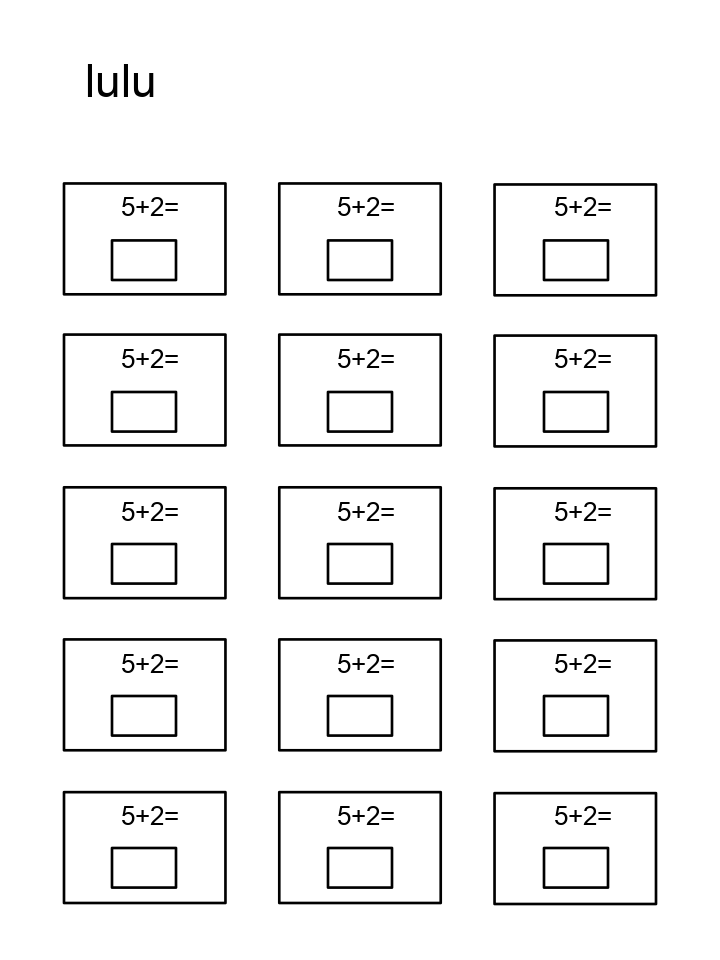
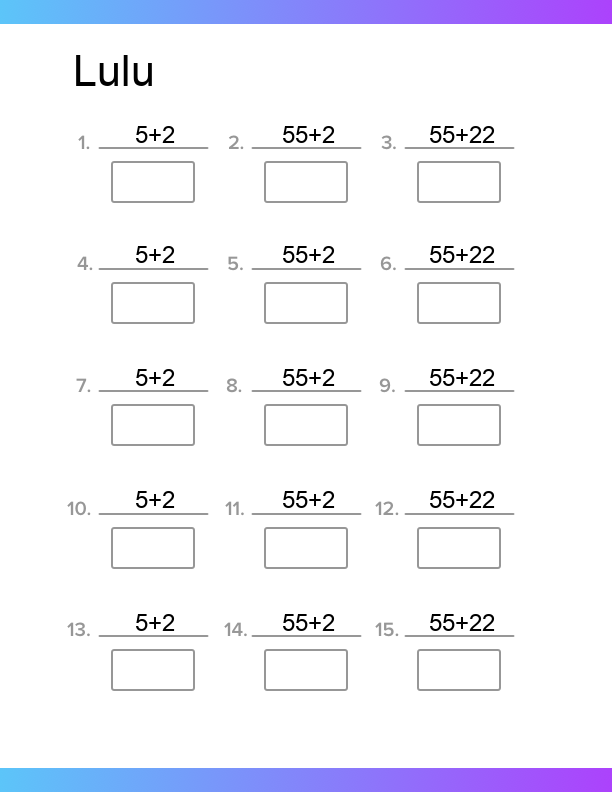
Image recognition is actually working ok

diff --git a/athena/performRecognition.py b/athena/performRecognition.py
@@ -7,40 +7,60 @@ import numpy as np
 # Load the classifier
 clf = joblib.load("digits_cls.pkl")
 
+
+def readNum(im):
+    # Convert to grayscale and apply Gaussian filtering
+    im_gray = cv2.cvtColor(im, cv2.COLOR_BGR2GRAY)
+    im_gray = cv2.GaussianBlur(im_gray, (5, 5), 0)
+
+    # Threshold the image
+    ret, im_th = cv2.threshold(im_gray, 90, 255, cv2.THRESH_BINARY_INV)
+
+    # Find contours in the image
+    _, ctrs, hier = cv2.findContours(im_th.copy(), cv2.RETR_EXTERNAL, cv2.CHAIN_APPROX_SIMPLE)
+
+    # Get rectangles contains each contour
+    rects = [cv2.boundingRect(ctr) for ctr in ctrs]
+
+
+    # For each rectangular region, calculate HOG features and predict
+    # the digit using Linear SVM.
+    nums = []
+    for rect in rects:
+        # Draw the rectangles
+        cv2.rectangle(im, (rect[0], rect[1]), (rect[0] + rect[2], rect[1] + rect[3]), (0, 255, 0), 3) 
+        # Make the rectangular region around the digit
+        leng = int(rect[3] * 1.6)
+        pt1 = int(rect[1] + rect[3] // 2 - leng // 2)
+        pt2 = int(rect[0] + rect[2] // 2 - leng // 2)
+
+        # i'm pretty sure I mixed up the x and y axes
+        rightmost, bottommost = im_th.shape
+        left = max(pt1, 0)
+        right = min(pt1+leng, rightmost)
+        top = max(pt2, 0)
+        bottom = min(pt2+leng, bottommost)
+
+        roi = im_th[left:right, top:bottom]
+        # Resize the image
+
+        if(min(roi.shape) < 1):
+            continue
+        roi = cv2.resize(roi, (28, 28), interpolation=cv2.INTER_AREA)
+        roi = cv2.dilate(roi, (3, 3))
+        # Calculate the HOG features
+        roi_hog_fd = hog(roi, orientations=9, pixels_per_cell=(14, 14), cells_per_block=(1, 1), visualise=False)
+        nbr = clf.predict(np.array([roi_hog_fd], 'float64'))
+
+        # should be sorting by left, but I think I mixed up the axes. this at least works
+        nums.append((top, nbr))
+        #cv2.putText(im, str(int(nbr[0])), (rect[0], rect[1]+50),cv2.FONT_HERSHEY_DUPLEX, 1, (0, 255, 255), 3)
+
+    nums.sort()
+    return ''.join([str(int(x[1][0])) for x in nums])
+
+'''
 # Read the input image 
-im = cv2.imread("test_ocr_3.jpg")
-
-# Convert to grayscale and apply Gaussian filtering
-im_gray = cv2.cvtColor(im, cv2.COLOR_2GRAY)
-im_gray = cv2.GaussianBlur(im_gray, (5, 5), 0)
-
-# Threshold the image
-ret, im_th = cv2.threshold(im_gray, 90, 255, cv2.THRESH_BINARY_INV)
-
-# Find contours in the image
-_, ctrs, hier = cv2.findContours(im_th.copy(), cv2.RETR_EXTERNAL, cv2.CHAIN_APPROX_SIMPLE)
-
-# Get rectangles contains each contour
-rects = [cv2.boundingRect(ctr) for ctr in ctrs]
-
-# For each rectangular region, calculate HOG features and predict
-# the digit using Linear SVM.
-for rect in rects:
-    # Draw the rectangles
-    cv2.rectangle(im, (rect[0], rect[1]), (rect[0] + rect[2], rect[1] + rect[3]), (0, 255, 0), 3) 
-    # Make the rectangular region around the digit
-    leng = int(rect[3] * 1.6)
-    pt1 = int(rect[1] + rect[3] // 2 - leng // 2)
-    pt2 = int(rect[0] + rect[2] // 2 - leng // 2)
-    roi = im_th[pt1:pt1+leng, pt2:pt2+leng]
-    # Resize the image
-    roi = cv2.resize(roi, (28, 28), interpolation=cv2.INTER_AREA)
-    roi = cv2.dilate(roi, (3, 3))
-    # Calculate the HOG features
-    roi_hog_fd = hog(roi, orientations=9, pixels_per_cell=(14, 14), cells_per_block=(1, 1), visualise=False)
-    nbr = clf.predict(np.array([roi_hog_fd], 'float64'))
-    cv2.putText(im, str(int(nbr[0])), (rect[0], rect[1]),cv2.FONT_HERSHEY_DUPLEX, 2, (0, 255, 255), 3)
-
-cv2.imwrite('test_network.png', im)
-cv2.imshow("Resulting Image with Rectangular ROIs", im)
-cv2.waitKey()
+im = cv2.imread("test_ocr/test_ocr_8.png")
+print(readNum(im))
+'''

diff --git a/athena/parse_image.py b/athena/parse_image.py
@@ -1,22 +1,32 @@
 from PIL import Image
 import pytesseract
+import performRecognition
+import numpy as np
+import time
 
-NUM_PROBLEMS = 3
+NUM_PROBLEMS = 6
 ROWS = 3
-WIDTH, HEIGHT = 720, 960
-BOX_WIDTH, BOX_HEIGHT = 30, 33 # I dunno lol
+WIDTH, HEIGHT = 612, 792
+BOX_WIDTH, BOX_HEIGHT = 80, 38  # I dunno lol
 
 
 def parse_attempt(im, num):
 	x,y = num%ROWS, num//ROWS
-	x_pixel = WIDTH*(.206+.29*x)
-	y_pixel = HEIGHT*(.271+.1387*y)
+	#x_pixel = WIDTH*(.20+.3*x)
+	#y_pixel = HEIGHT*(.271+.159*y)
+	x_pixel = WIDTH*(.25 + .25*x)
+	y_pixel = HEIGHT*(.2272 + .1548*y)
+	if y == 0:
+		print('hi')
+		y_pixel += HEIGHT * 0.003
 	print(num, x_pixel, y_pixel)
 	sub = im.crop((x_pixel-BOX_WIDTH/2, y_pixel-BOX_HEIGHT/2, x_pixel+BOX_WIDTH/2, y_pixel+BOX_HEIGHT/2))
 	sub.show()
-	if num == 2:
-		sub.save('three.png')
-	text = pytesseract.image_to_string(sub)
+	#if num == 2:
+	#	sub.save('three.png')
+	#text = pytesseract.image_to_string(sub)
+	text = performRecognition.readNum(np.array(sub))
+	print(text)
 	return text.strip()
 
 
@@ -24,5 +34,5 @@ def parse_image(filename):
 	im = Image.open(filename)
 	return [parse_attempt(im, num) for num in range(NUM_PROBLEMS)]
 
-print(parse_image('lulu_done.png'))
-print('<'+pytesseract.image_to_string(Image.open('three.png'))+'>')
+print(parse_image('template_done.png'))
+#print('<'+pytesseract.image_to_string(Image.open('three.png'))+'>')

diff --git a/athena/generate_image.py b/athena/generate_image.py
@@ -1,23 +1,28 @@
 from PIL import Image, ImageFont, ImageDraw
 
 
-WIDTH, HEIGHT = 850, 1100
+WIDTH, HEIGHT = 612, 792
 #im = Image.new('RGB', (WIDTH, HEIGHT), 'white')
-im = Image.open('homework_template/Slide1.png')
+im = Image.open('template.png')
 draw = ImageDraw.Draw(im)
-FONT_SIZE = 26
+FONT_SIZE = 24
 font = ImageFont.truetype('Arial.ttf', FONT_SIZE)
 large_font = ImageFont.truetype('Arial.ttf', int(FONT_SIZE*1.8))
 
 ROWS = 3
-#problems = ['5+2=']*15
 def make_homework(name, problems):
-	draw.text((WIDTH*.1, HEIGHT*.05), name, (0,0,0), large_font)
+	draw.text((WIDTH*.12, HEIGHT*.06), name, (0,0,0), large_font)
 	for num, problem in enumerate(problems):
 		x,y = num%ROWS, num//ROWS
-		x_pixel = WIDTH*(.206+.255*x) - (FONT_SIZE*len(problem)/2*1.04)
-		y_pixel = HEIGHT*(.175+.1385*y)
+		#x_pixel = WIDTH*(.206+.255*x) - (FONT_SIZE*len(problem)/2*1.04)
+		#y_pixel = HEIGHT*(.175+.1385*y)
+		x_pixel = WIDTH*(.25 + .25*x) - (FONT_SIZE*len(problem)/2*.5)
+		y_pixel = HEIGHT*(.15 + .1548*y)
+		if y == 0:
+			y_pixel += HEIGHT * 0.003
 		draw.text((x_pixel, y_pixel), problem, (0,0,0), font=font)
+	im.show()
 	im.save(name.replace(' ','')+'.png')
 
-#make_homework('lulu', problems)
+problems = ['5+2', '55+2', '55+22']*5
+make_homework('Lulu', problems)
